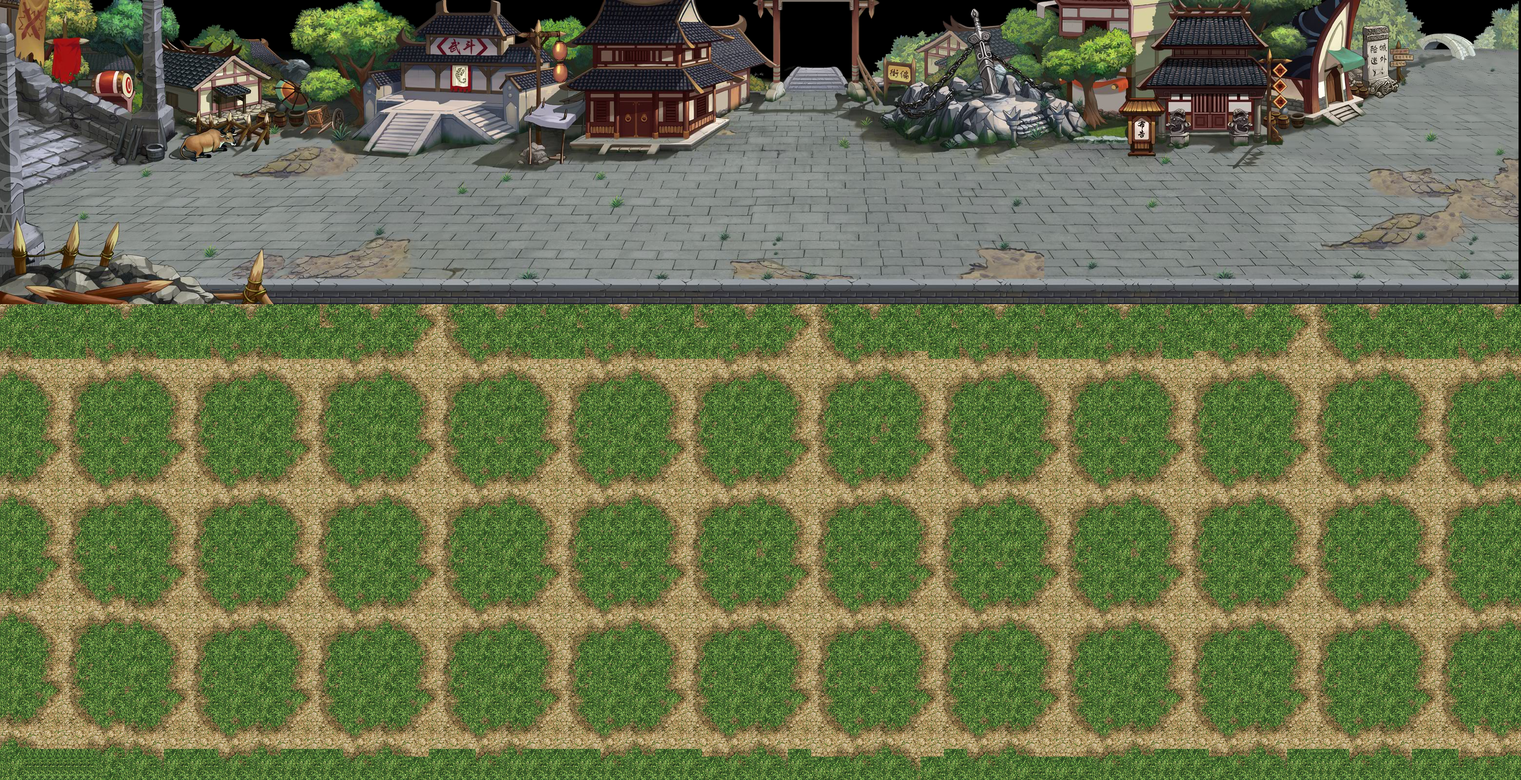
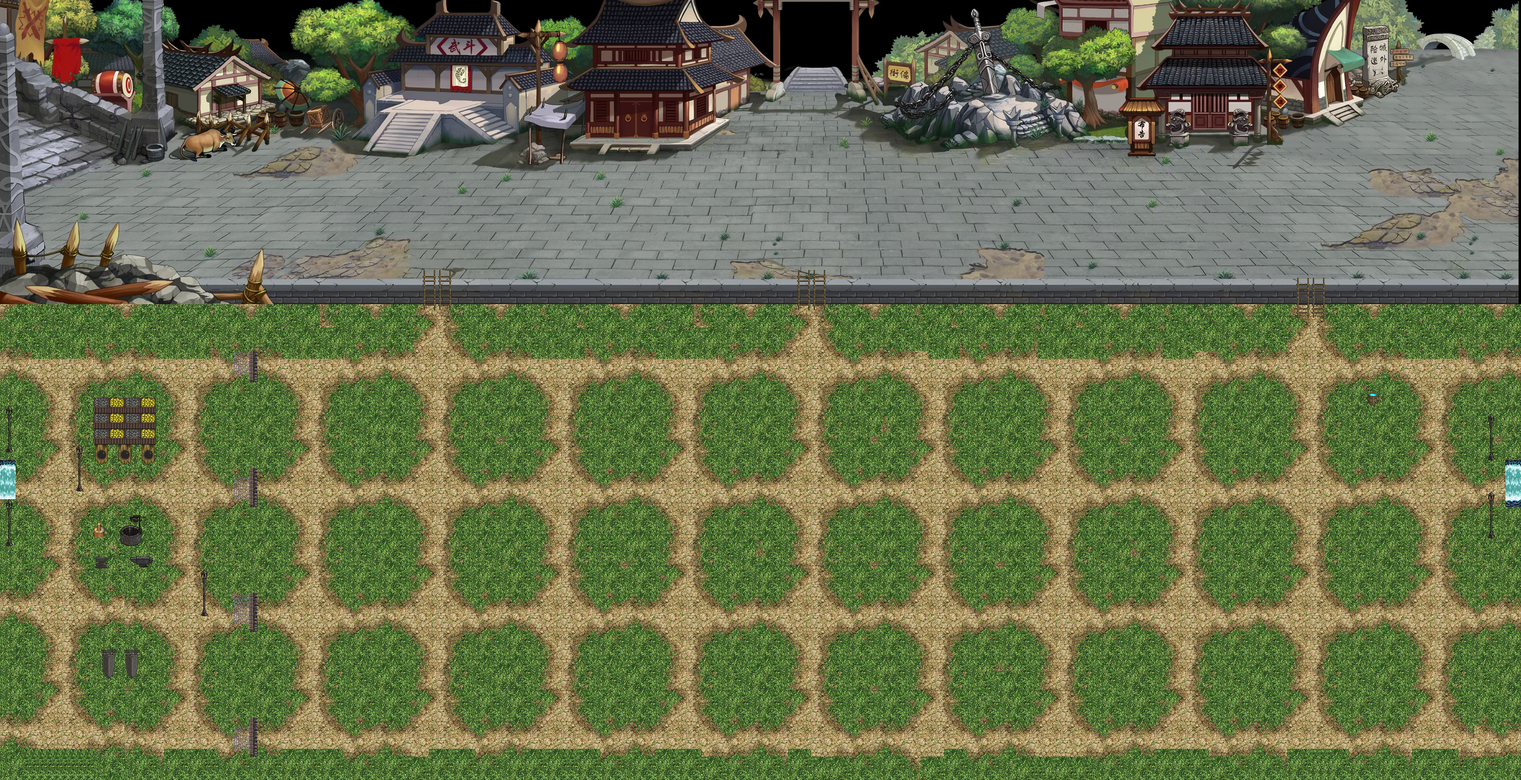
传送+被日本人抓到结束游戏

diff --git a/tunnel_warfare/actor/japanese_shoot_soldier.py b/tunnel_warfare/actor/japanese_shoot_soldier.py
@@ -7,16 +7,16 @@ from actor.shoot_soldier import ShootSoldier
 
 
 class JapaneseShootSoldier(ShootSoldier):
-    def __init__(self,x,y):
+    def __init__(self, x, y):
         super(JapaneseShootSoldier, self).__init__("./resources/images/japanese/soldier2.png",
-                                                  "./resources/images/japanese/soldier2-1.png",
-                                                  x,y,"日军",100)
+                                                   "./resources/images/japanese/soldier2-1.png",
+                                                   x, y, "日军", 100)
         self.count = 10
 
-    def run(self, down_flag, key_list, obstacle_group,xiao_tie_group):
-        #super(ShootSoldier, self).run(down_flag, key_list)
+    def run(self, down_flag, key_list, obstacle_group, xiao_tie_group):
+        # super(ShootSoldier, self).run(down_flag, key_list)
         if self.count == 0:
-            key = random.randint(0,3)
+            key = random.randint(0, 3)
             self.count = 5
             if key == 0:
                 self.walk_action.set_dir(WalkDir.left)
@@ -36,20 +36,21 @@ class JapaneseShootSoldier(ShootSoldier):
         off_y = 0
 
         if self.walk_action.walk_dir == WalkDir.down:
-            off_y += 10
+            off_y += 5
         elif self.walk_action.walk_dir == WalkDir.up:
-            off_y += -10
+            off_y += -5
         elif self.walk_action.walk_dir == WalkDir.left:
-            off_x += -10
+            off_x += -5
         elif self.walk_action.walk_dir == WalkDir.right:
-            off_x += 10
+            off_x += 5
 
         temp_rect = self.rect
         self.rect = self.rect.move(off_x, off_y)
-        collide_list = pygame.sprite.spritecollide(self, obstacle_group, False) or pygame.sprite.spritecollide(self,xiao_tie_group,False)
+        collide_list = pygame.sprite.spritecollide(self, obstacle_group, False) or pygame.sprite.spritecollide(self,
+                                                                                                               xiao_tie_group,
+                                                                                                               False)
         if len(collide_list) > 0:
             self.rect = temp_rect
         else:
             self.pos_x += off_x
             self.pos_y += off_y
-

diff --git a/tunnel_warfare/actor/mine_boom.py b/tunnel_warfare/actor/mine_boom.py
@@ -7,40 +7,41 @@ class Mine(pygame.sprite.Sprite):
         self.pos_x = x
         self.pos_y = y
         self.image = image
-        x,y,w,h = self.image.get_rect()
-        self.rect = pygame.Rect(self.pos_x,self.pos_y,w,h)
+        x, y, w, h = self.image.get_rect()
+        self.rect = pygame.Rect(self.pos_x, self.pos_y, w, h)
 
-    def draw(self,surface,view_x,view_y):
-        surface.blit(self.image,(self.pos_x-view_x,self.pos_y-view_y))
+    def draw(self, surface, view_x, view_y):
+        surface.blit(self.image, (self.pos_x - view_x, self.pos_y - view_y))
+
 
 class Boom(pygame.sprite.Sprite):
-    def __init__(self,x,y,image,row,col):
+    def __init__(self, x, y, image, row, col):
         super(Boom, self).__init__()
         self.row = row
         self.col = col
         self.pos_x = x
         self.pos_y = y
         self.image = image
-        x,y,w,h = self.image.get_rect()
+        x, y, w, h = self.image.get_rect()
 
-        w= int(w/col)
-        h=int(h/row)
+        w = int(w / col)
+        h = int(h / row)
         self.no = 0
-        self.count = row*col
+        self.count = row * col
         self.boom_image = []
-        for i in range(0,self.count):
+        for i in range(0, self.count):
             temp_row = int(i / self.col)
             temp_col = i % self.col
-            rect = (temp_col * w,temp_row * h,w,h)
+            rect = (temp_col * w, temp_row * h, w, h)
             image = self.image.subsurface(rect)
             self.boom_image.append(image)
 
         self.show_count = 0
 
-    def draw(self,surface,view_x,view_y):
-        if self.no >= self.count - 1 :
+    def draw(self, surface, view_x, view_y):
+        if self.no >= self.count - 1:
             return
-        self.show_count +=1
+        self.show_count += 1
         if self.show_count > 5:
             self.no += 1
             self.show_count = 0

diff --git a/tunnel_warfare/scene/tunnel_war_scene.py b/tunnel_warfare/scene/tunnel_war_scene.py
@@ -78,6 +78,29 @@ class TunnelWarScene(BaseScene):
 
         self.tasks[self.task_id].do_task(down_flag, key_list)
         take_status = self.tasks[self.task_id].get_status()
+
+        if key_list[pygame.K_1]:
+            print(self.xiao_tie.pos_x, self.xiao_tie.pos_y, self.xiao_tie.rect)
+
+        # 传送检测
+        if abs(self.xiao_tie.pos_x - 3070) <= 5 and abs(self.xiao_tie.pos_y - 950) <= 30:
+            self.xiao_tie.pos_x = 5
+            self.xiao_tie.pos_y = 925
+            self.xiao_tie.rect = pygame.Rect(self.xiao_tie.pos_x + 15, self.xiao_tie.pos_y + 60, 20, 10)
+
+        if abs(self.xiao_tie.pos_x + 5) <= 5 and abs(self.xiao_tie.pos_y - 925) <= 25:
+            self.xiao_tie.pos_x = 3060
+            self.xiao_tie.pos_y = 950
+            self.xiao_tie.rect = pygame.Rect(self.xiao_tie.pos_x + 15, self.xiao_tie.pos_y + 60, 20, 10)
+
+        # 碰到日本人就被抓了
+        for japanese in self.japanese_group:
+            is_collide = pygame.sprite.collide_rect(self.xiao_tie, japanese)
+            if is_collide:
+                self.pass_status = ScenePassStatus.final_fail
+                pygame.mixer.music.stop()
+
+
         if take_status == TaskStatus.win_over:
             self.task_id += 1
             if self.task_id >= len(self.tasks):

diff --git a/tunnel_warfare/dialog/tunnel_dialog.py b/tunnel_warfare/dialog/tunnel_dialog.py
@@ -10,9 +10,9 @@ class TunnelTask1BeginDialog(SysBaseDialog):
                          "我已经时刻准备接收挑战了")
 
         text_list.append("红军：小铁，你准备好了吗？;" +
-                         "我们需要你帮忙找到;" +
-                         "一些制作地雷的原材料。;" +
-                         "我们需要5种原材料喔。")
+                         "请找到5种地雷原材料;" +
+                         "我们有一个隐蔽的据点。;" +
+                         "别被日本人抓到了。;")
 
         text_list.append("小铁：时刻准备着，;" +
                          "保障完成组织交代的任务。")
@@ -35,7 +35,7 @@ class TunnelTask2BeginDialog(SysBaseDialog):
         text_list = []
         text_list.append("红军：小铁，;" +
                          "组织需要你上到地面去埋地雷了喔。;" +
-                         "请把所有的敌人消灭")
+                         "请把消灭5个敌人")
 
         text_list.append("小铁：我已经迫不及待了，;" +
                          "保障完成组织交代的任务。")

diff --git a/tunnel_warfare/actor/xiao_tie.py b/tunnel_warfare/actor/xiao_tie.py
@@ -41,16 +41,16 @@ class XiaoTie(pygame.sprite.Sprite):
 
         if key_list[pygame.K_DOWN]:
             self.dir = WalkDir.down
-            off_y += 15
+            off_y += 10
         elif key_list[pygame.K_UP]:
             self.dir = WalkDir.up
-            off_y -= 15
+            off_y -= 10
         elif key_list[pygame.K_LEFT]:
             self.dir = WalkDir.left
-            off_x -= 15
+            off_x -= 10
         elif key_list[pygame.K_RIGHT]:
             self.dir = WalkDir.right
-            off_x += 15
+            off_x += 10
         self.boy_base_action.set_dir(self.dir)
         self.army_base_action.set_dir(self.dir)
 

diff --git a/tunnel_warfare/scene/task/task2_kill_japanene.py b/tunnel_warfare/scene/task/task2_kill_japanene.py
@@ -37,7 +37,7 @@ class KillJapaneseTask(BaseTask):
                                item.rect.y - item.rect.height)
             self.score += 1
 
-        if self.score > 10:
+        if self.score > 4:
             self.task_status = TaskStatus.win_dialog
             self.xiao_tie.set_status("army")
 

diff --git a/tunnel_warfare/game/tunnel_war_game.py b/tunnel_warfare/game/tunnel_war_game.py
@@ -47,6 +47,6 @@ class TunnelWarGame:
                     break
 
             # 通过时钟对象指定循环频
-            self.clock.tick(20)
+            self.clock.tick(40)
             # 调用flip方法更新显示,也可以使用update方法
             pygame.display.flip()
